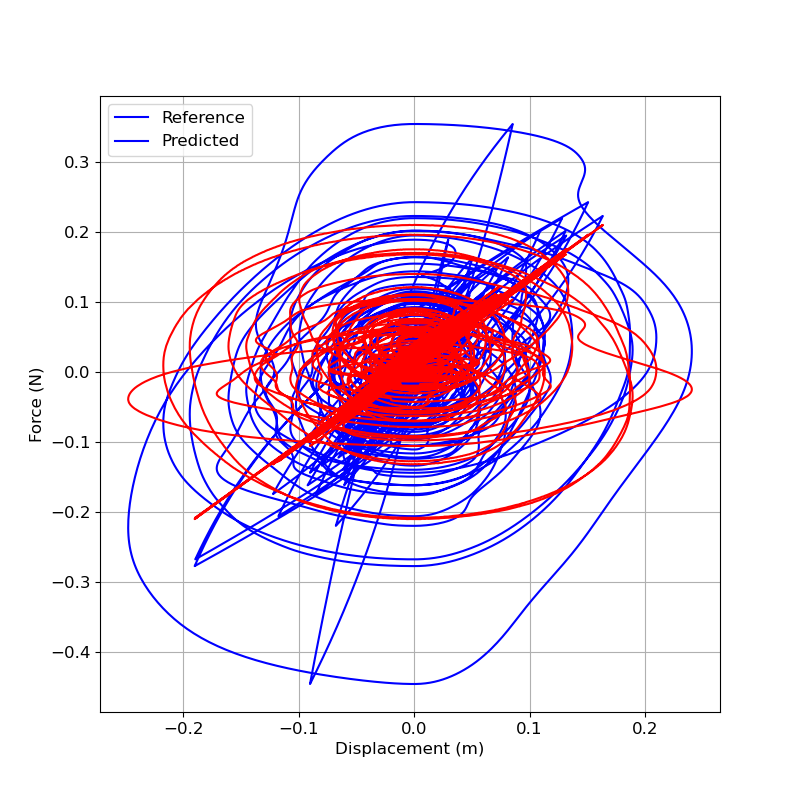
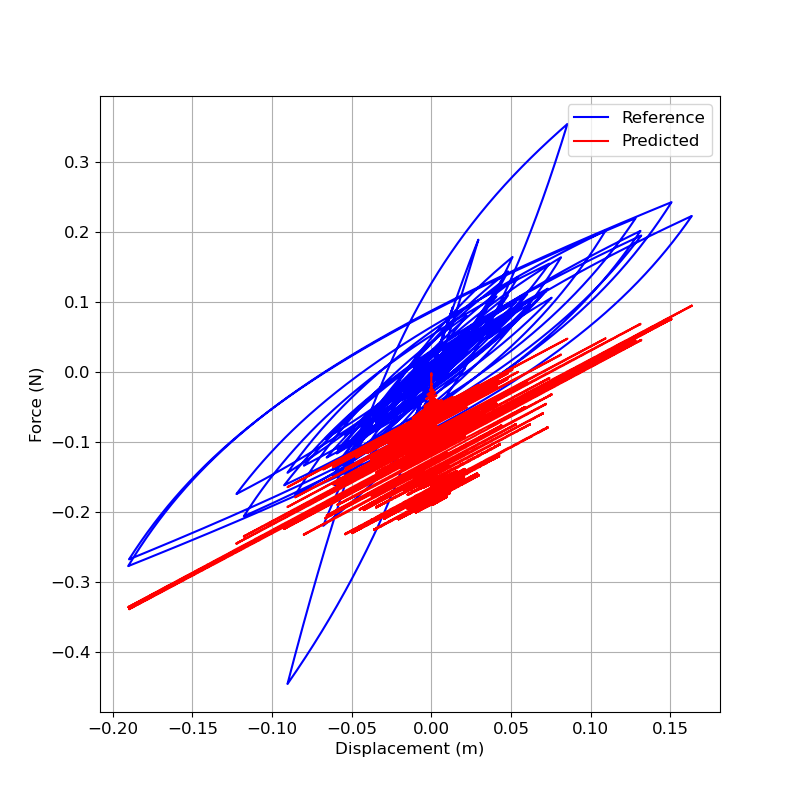
Allow starting from the checkpoint

diff --git a/BWBNTesting_Training.py b/BWBNTesting_Training.py
@@ -84,10 +84,16 @@ def train(X_train,
           nn_size,
           window_size,
           checkpoint_dir,
-          checkpoint_epoch):
+          checkpoint_epoch,
+          existing_checkpoint=False):
     # device = torch.device('cuda' if torch.cuda.is_available() else 'cpu')
     device = torch.device('cuda:1')
-    model = CustomLSTM(2, nn_size, 1).to(device)
+    
+    model = CustomLSTM(2, nn_size, 1)
+    if existing_checkpoint != False:
+        model.load_state_dict(existing_checkpoint)
+    model = model.to(device)
+
     criterion = custom_loss
     optimizer = torch.optim.Adam(model.parameters(), lr=1e-3)
     X_train, y_train, mask_train = torch.from_numpy(X_train).float().to(device), torch.from_numpy(y_train).float().to(device), torch.from_numpy(mask_train).float().to(device)
@@ -121,7 +127,7 @@ def train(X_train,
             y_pred, _ = model(X_val)
             loss = criterion(y_pred[:, :, 0], y_val, mask_val)
             print(f'Validation Loss: {loss.item()}')
-            torch.save(model.state_dict(), os.path.normpath(os.path.join(checkpoint_dir, 'checkpoint_{}.pth'.format(epoch+1))))
+            torch.save(model.state_dict(), os.path.normpath(os.path.join(checkpoint_dir, 'checkpoint_short_{}.pth'.format(epoch+1))))
     
     return model
 

diff --git a/BWBNTesting_main.py b/BWBNTesting_main.py
@@ -21,7 +21,7 @@ import BWBNTesting_ResultAnalysis
 
 EQ_generation = False
 Preprocessing = False
-Training = False
+Training = True
 ResultAnalysis = True
 
 
@@ -86,8 +86,12 @@ nn_size = 40
 num_epochs = 300
 model_dir = '/home/jaehwan/Python Project/DLCM/BWBN Testing_torch/Models'
 os.makedirs(model_dir, exist_ok=True) 
-window_size = 200
+window_size = 100
 checkpoint_epoch = 2
+pretrained = os.path.normpath(os.path.join(model_dir, './checkpoint_{}.pth'.format(300)))
+
+if pretrained != False:
+    checkpoint = torch.load(pretrained)
 
 if Training:
     model = BWBNTesting_Training.train(X_train,
@@ -100,7 +104,8 @@ if Training:
                                 nn_size,
                                 window_size,
                                 checkpoint_dir=model_dir,
-                                checkpoint_epoch=checkpoint_epoch)
+                                checkpoint_epoch=checkpoint_epoch,
+                                existing_checkpoint=checkpoint)
 
 Data = np.load(os.path.normpath(os.path.join(processed_data_dir, './Processed_data.npz')))
 X_val, X_test, y_val, y_test = Data['X_val'], Data['X_test'], Data['y_val'], Data['y_test']

diff --git a/BWBNTesting_ResultAnalysis.py b/BWBNTesting_ResultAnalysis.py
@@ -52,7 +52,7 @@ def result_plot(X_val,
         print('Validation Loss: {}'.format(loss.item()))
     
     best_model_idx = np.argmin(losses)
-    checkpoint = torch.load(model_paths[best_model_idx])
+    checkpoint = torch.load(model_paths[-1])
     model = BWBNTesting_Training.CustomLSTM(2, nn_size, 1)
     model.load_state_dict(checkpoint)
     model = model.to(device)
@@ -64,9 +64,9 @@ def result_plot(X_val,
     mask_val = mask_val.cpu().detach().numpy()
 
     for i in range(len(y_val_pred)):
-        X_val_i = X_val[i, mask_val[i].astype(bool)]
-        y_val_pred_i = y_val_pred[i, mask_val[i].astype(bool)]
-        y_val_i = y_val[i, mask_val[i].astype(bool)]
+        X_val_i = X_val[i, mask_val[i].astype(int).astype(bool), 0]
+        y_val_pred_i = y_val_pred[i, mask_val[i].astype(int).astype(bool)]
+        y_val_i = y_val[i, mask_val[i].astype(int).astype(bool)]
         plt.figure(figsize=(8, 8))
         plt.plot(X_val_i, y_val_i, 'b')
         plt.plot(X_val_i, y_val_pred_i, 'r')
